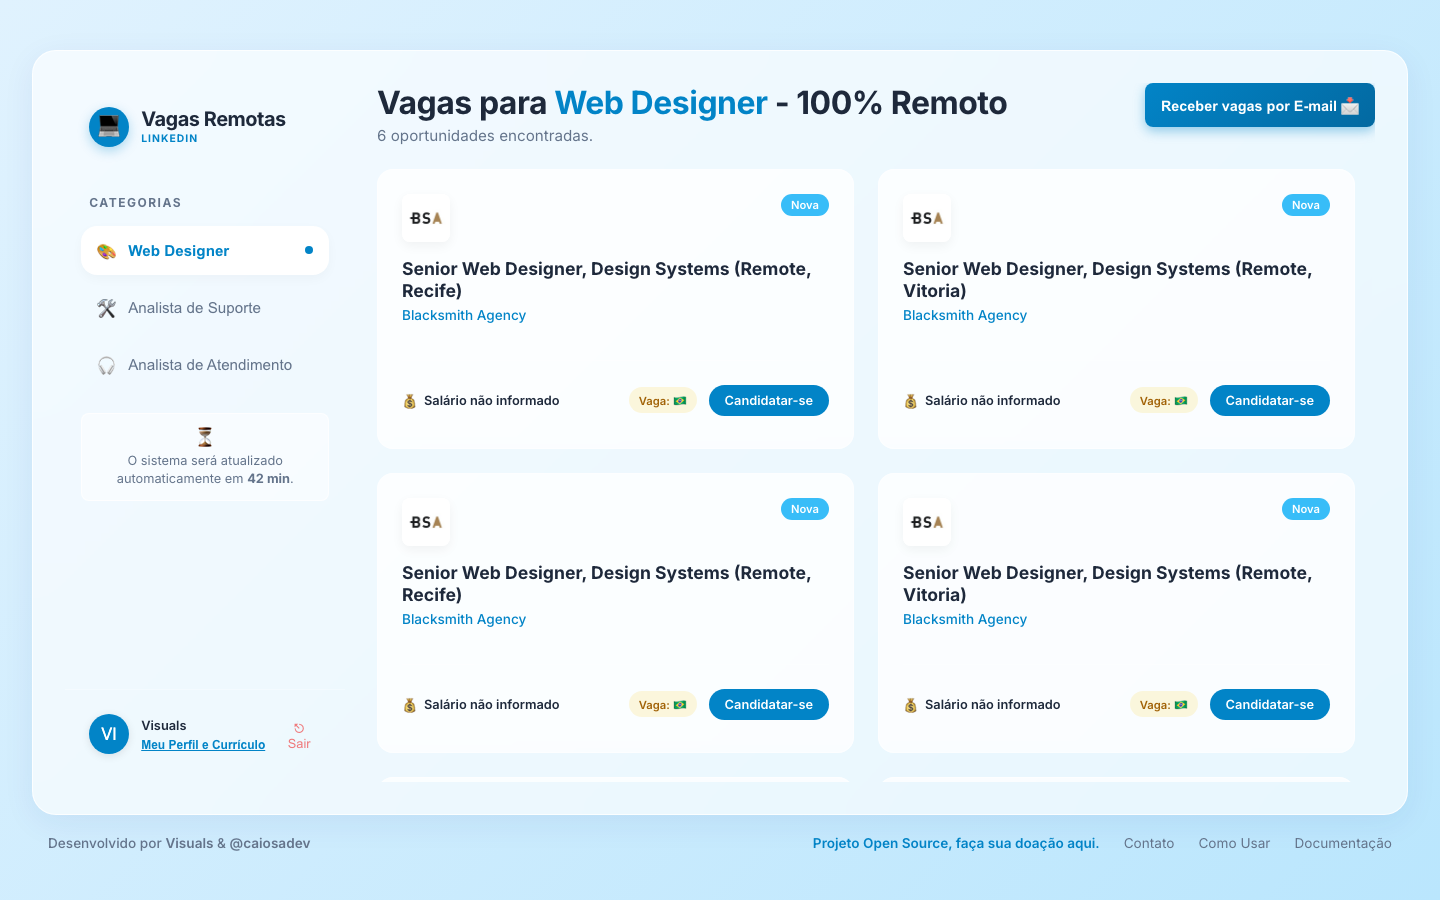
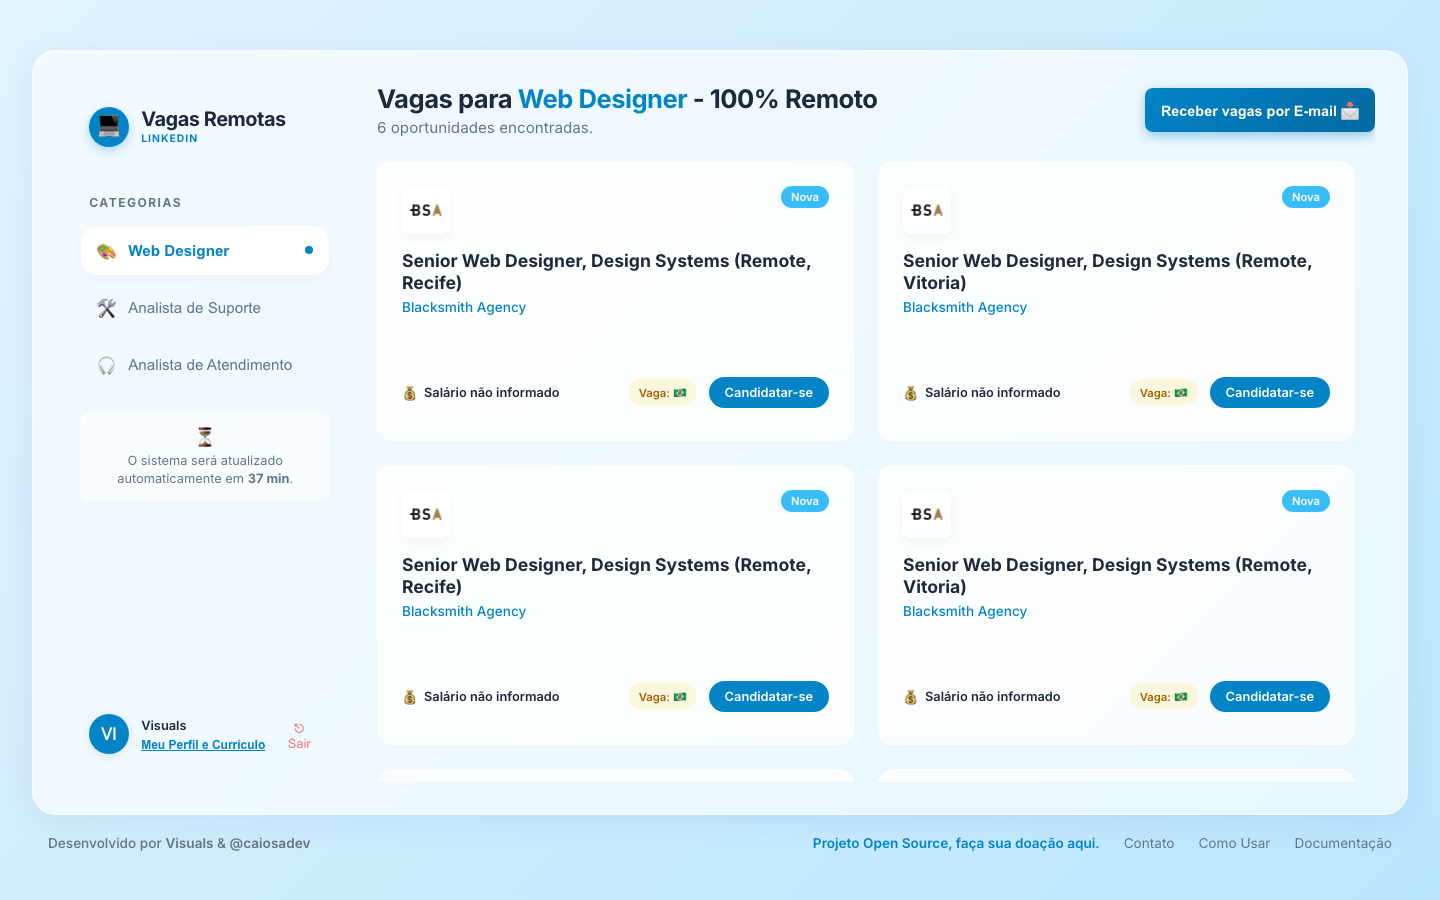
Reduce header font size and align newsletter button vertically centered

diff --git a/vagas-app/src/components/JobGrid.jsx b/vagas-app/src/components/JobGrid.jsx
@@ -7,7 +7,7 @@ const JobGrid = ({ jobs, categoryName, newJobIds, clearNewJobs, onOpenNewsletter
 
   return (
     <main className="main-content">
-      <header className="main-header" style={{ display: 'flex', justifyContent: 'space-between', alignItems: 'flex-start' }}>
+      <header className="main-header" style={{ display: 'flex', justifyContent: 'space-between', alignItems: 'center' }}>
         <div>
           <h2>Vagas para <span className="highlight">{categoryName}</span> - 100% Remoto</h2>
           <p>

diff --git a/vagas-app/src/components/JobGrid.css b/vagas-app/src/components/JobGrid.css
@@ -10,7 +10,7 @@
 }
 
 .main-header h2 {
-  font-size: 2rem;
+  font-size: 1.6rem;
   font-weight: 700;
   margin-bottom: 4px;
   color: var(--text-main);
